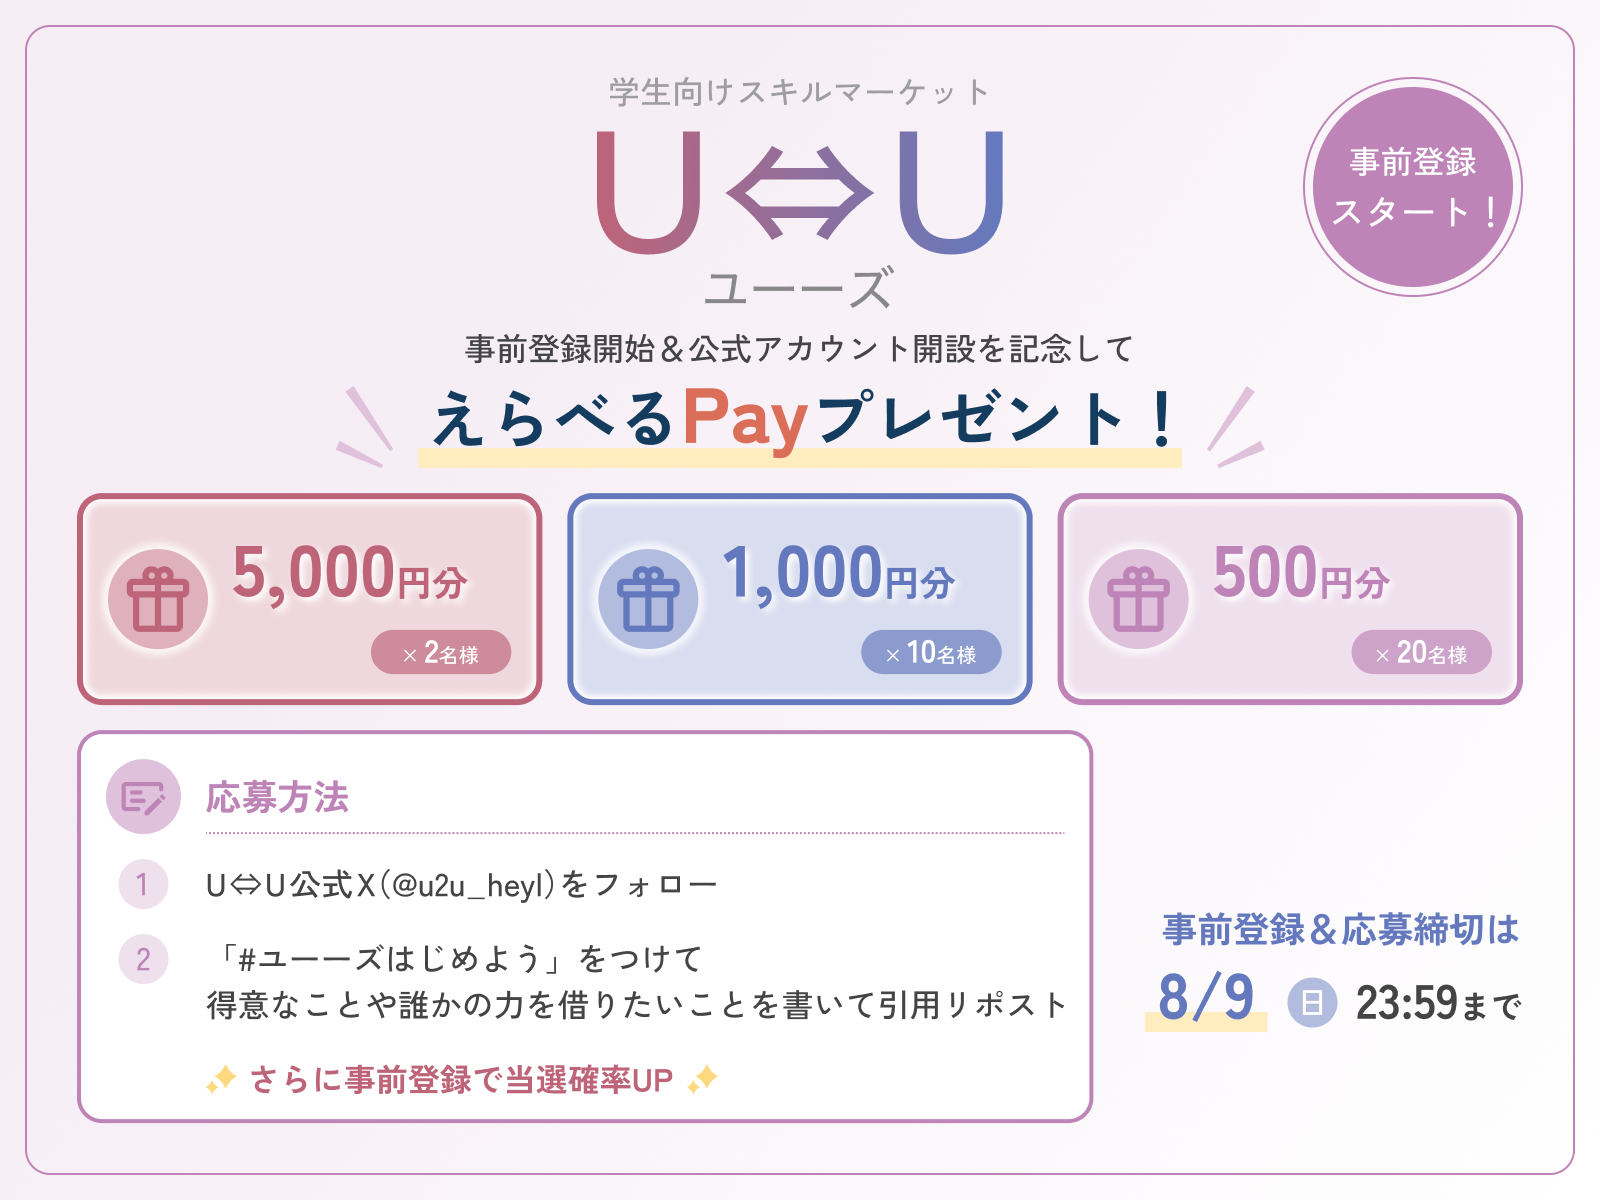
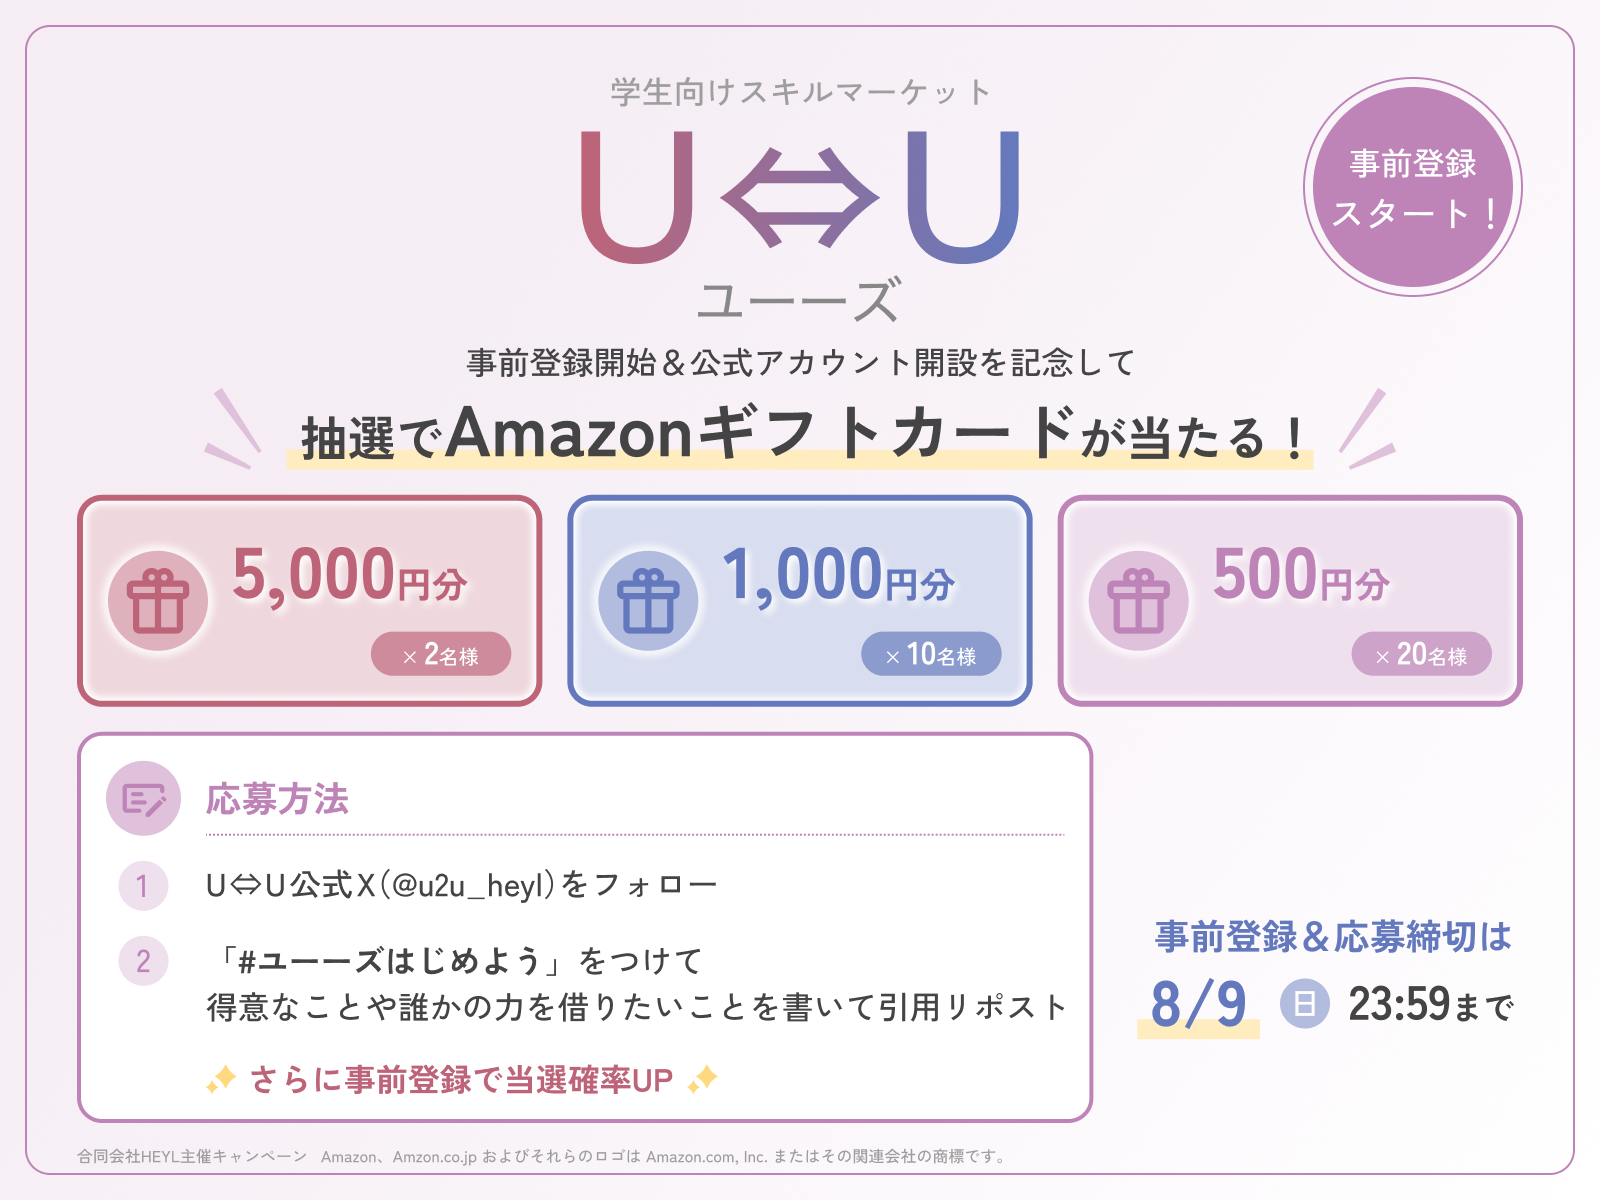
Switch preregistration campaign to Amazon gift card

diff --git a/u2u-service-site/lib/news.ts b/u2u-service-site/lib/news.ts
@@ -57,7 +57,7 @@ export const seedNewsArticles: NewsArticle[] = [
       "U⇔Uの事前登録を開始しました。\nあわせて、公式SNS（X・Instagram）を開設し、事前登録開始および公式SNS開設を記念したキャンペーンもスタートしました。",
     eyecatch: {
       src: "/images/news/u2u_x_preregistration.png",
-      alt: "U⇔U 事前登録開始・公式アカウント開設記念「えらべるPay®」プレゼントキャンペーン"
+      alt: "U⇔U 事前登録開始・公式アカウント開設記念 Amazonギフトカードプレゼントキャンペーン"
     },
     seo: {
       title: "事前登録開始・公式SNS開設のお知らせ | U⇔U TOPICS",
@@ -92,9 +92,9 @@ export const seedNewsArticles: NewsArticle[] = [
         id: "prizes",
         type: "ul",
         items: [
-          "「えらべるPay®」5,000円分：2名様",
-          "「えらべるPay®」1,000円分：10名様",
-          "「えらべるPay®」500円分：20名様"
+          "Amazonギフトカード 5,000円分：2名様",
+          "Amazonギフトカード 1,000円分：10名様",
+          "Amazonギフトカード 500円分：20名様"
         ]
       },
       { id: "terms-heading", type: "h2", text: "応募規約" },
@@ -124,7 +124,7 @@ export const seedNewsArticles: NewsArticle[] = [
       {
         id: "winner-2",
         type: "p",
-        text: "DMを受信できる設定へ変更のうえご応募ください。一定期間ご返信がない場合は、当選を無効とさせていただく場合があります。"
+        text: "DMを受信できる設定へ変更のうえご応募ください。\n当選通知後、当社が指定する期限までにご返信いただけない場合は、当選を無効とさせていただく場合があります。"
       },
       { id: "application-notes-heading", type: "h3", text: "応募に関する注意事項" },
       {
@@ -132,7 +132,8 @@ export const seedNewsArticles: NewsArticle[] = [
         type: "ul",
         items: [
           "応募はお一人様1アカウントまでとします。",
-          "非公開アカウントは応募対象外となる場合があります。",
+          "非公開（鍵付き）アカウントからの引用リポストは、投稿内容を確認できないため応募対象外となります。",
+          "当選発表までの間に、U⇔U公式Xアカウント（@u2u_heyl）のフォローを解除した場合、または応募対象の引用リポストを削除した場合は、応募資格を無効とする場合があります。",
           "応募内容が公序良俗に反するもの、第三者の権利を侵害するもの、その他当社が不適切と判断した場合は応募を無効とします。",
           "不正行為が確認された場合は応募・当選を無効とします。",
           "本キャンペーンは予告なく変更・中止・終了する場合があります。"
@@ -172,34 +173,16 @@ export const seedNewsArticles: NewsArticle[] = [
           "本応募規約に定めのない事項については、当社の判断により決定します。"
         ]
       },
-      { id: "pay-about-heading", type: "h2", text: "「えらべるPay®」について" },
+      { id: "amazon-notes-heading", type: "h3", text: "Amazonギフトカードに関する注意事項" },
       {
-        id: "pay-about-1",
+        id: "amazon-notes-1",
         type: "p",
-        text: "「えらべるPay®」は、ポイントやPay系の商品を自由に選べるギフトです。\nラインナップの中から好きな商品と交換していただけます。"
+        text: "本キャンペーンは合同会社HEYLが実施するものであり、Amazonでは本キャンペーンに関するお問い合わせを受け付けておりません。\nお問い合わせは support@heyl.co.jp までお願いいたします。"
       },
       {
-        id: "pay-about-2",
+        id: "amazon-notes-2",
         type: "p",
-        text: "「えらべるPay®」の利用に専用アプリのダウンロードや会員登録は必要ありません。"
-      },
-      { id: "pay-notes-heading", type: "h2", text: "「えらべるPay®」ご利用上の注意" },
-      {
-        id: "pay-notes",
-        type: "note",
-        title: "株式会社ギフティのクリエイティブガイドラインに基づく注意事項",
-        items: [
-          "ラインナップの中から好きな商品と交換していただけます。",
-          "ポイント数は受け取ったチケット券面をご確認ください。",
-          "ラインナップおよび交換に必要なポイントは付与されたギフトにより異なり、変更になる場合があります。",
-          "ポイント交換レートは商品により異なります。",
-          "選択された商品によって、1ポイントにつき1円相当とならない場合があります。また、交換レートを含む商品の内容は今後予告なく変更となる場合があります。",
-          "ラインナップは随時変更となる場合があります。",
-          "ポイントの利用には期限があります。",
-          "期限終了後、ポイント残高は失効します。",
-          "ポイントの追加チャージはできません。",
-          "商品交換後の商品の変更・キャンセルはできません。"
-        ]
+        text: "Amazon、Amazon.co.jp およびそれらのロゴは Amazon.com, Inc. またはその関連会社の商標です。"
       }
     ]
   }
